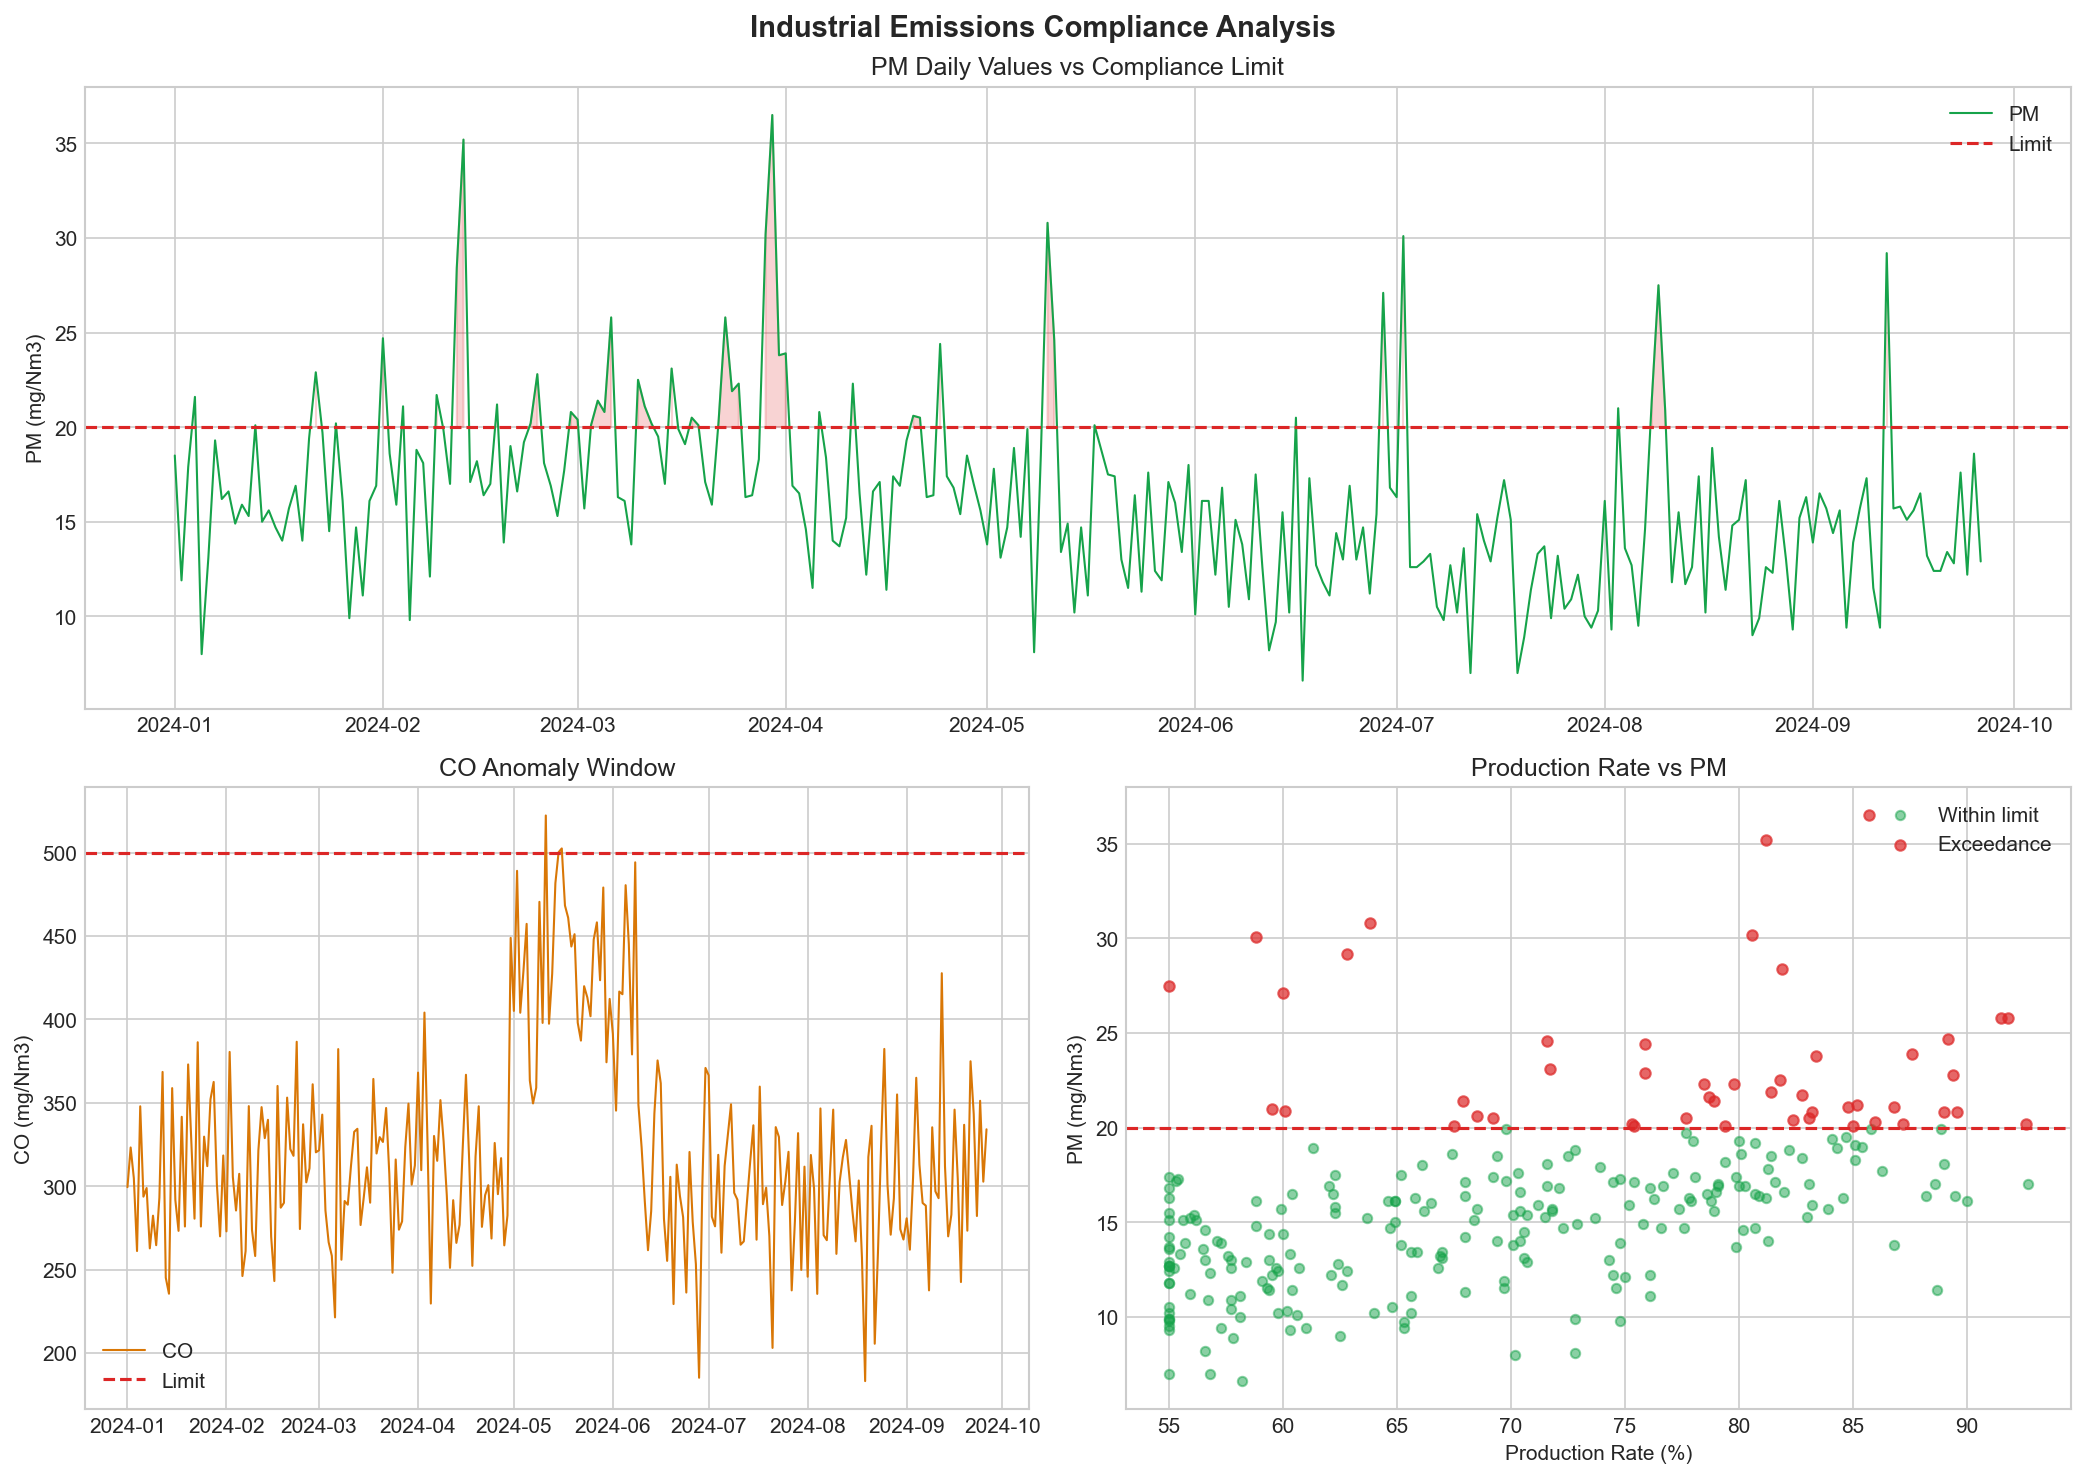
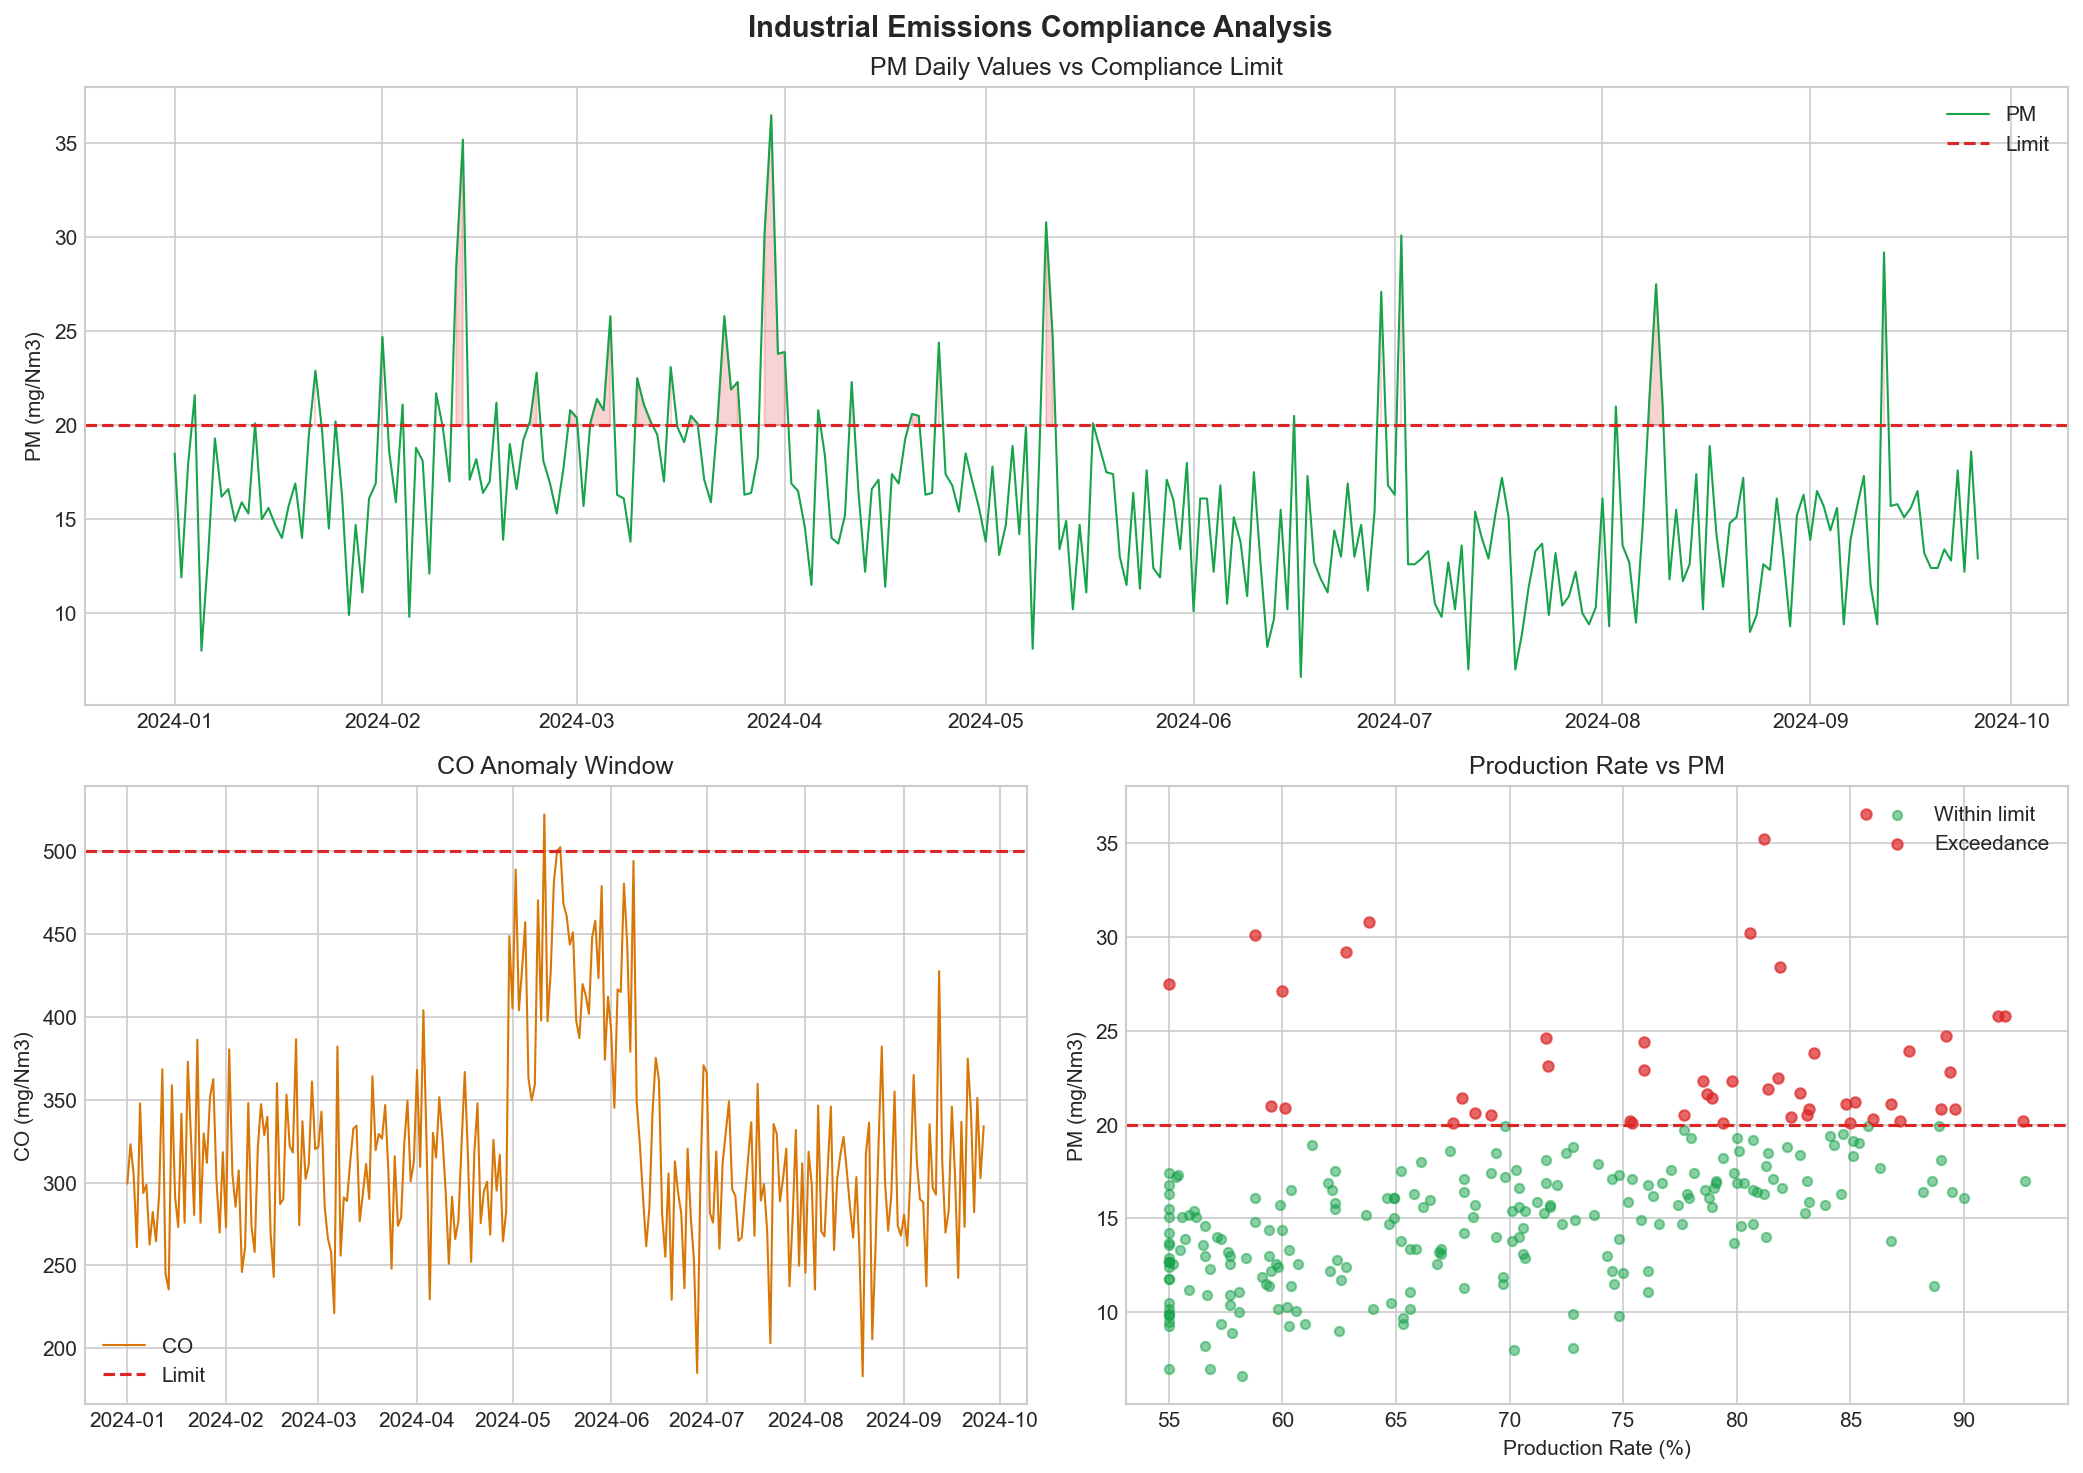
if it works

diff --git a/test.py b/test.py
@@ -1,0 +1,12 @@
+print ("Hello World")
+
+print ("hi")
+
+
+
+
+
+
+
+
+

diff --git a/process_project.py b/process_project.py
@@ -363,3 +363,4 @@ plt.savefig(
 print("\nCharts saved -> p1_analysis_charts.png")
 
 print("=" * 60)
+